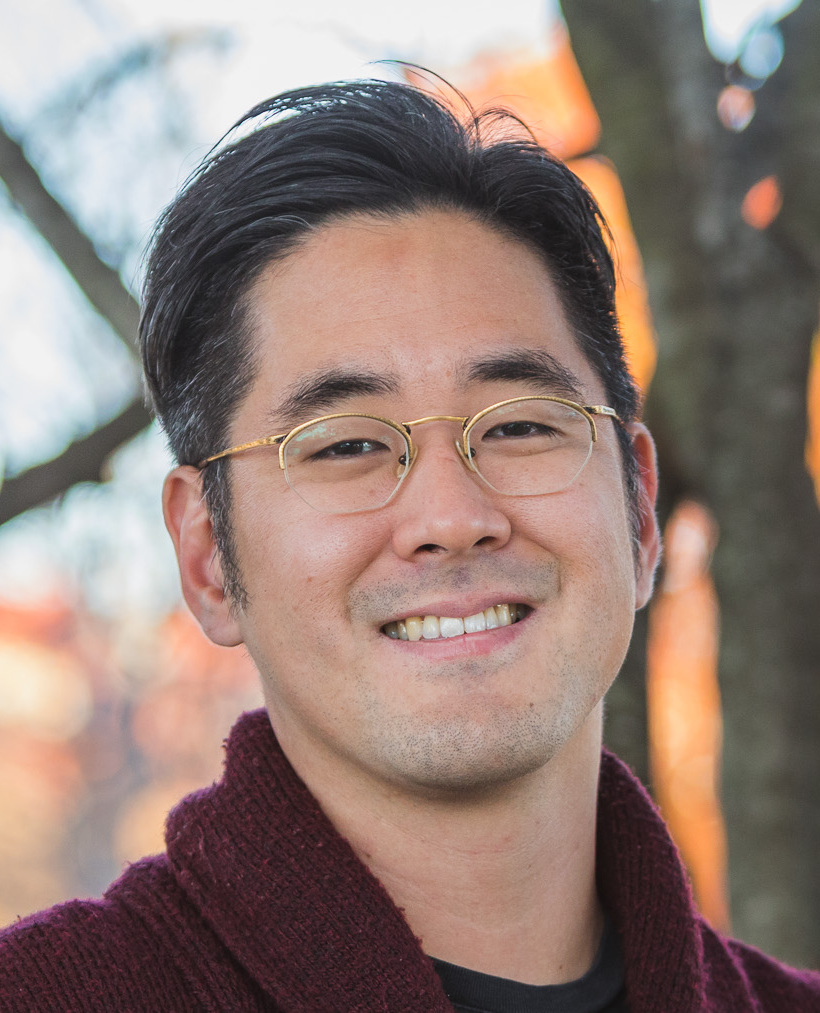
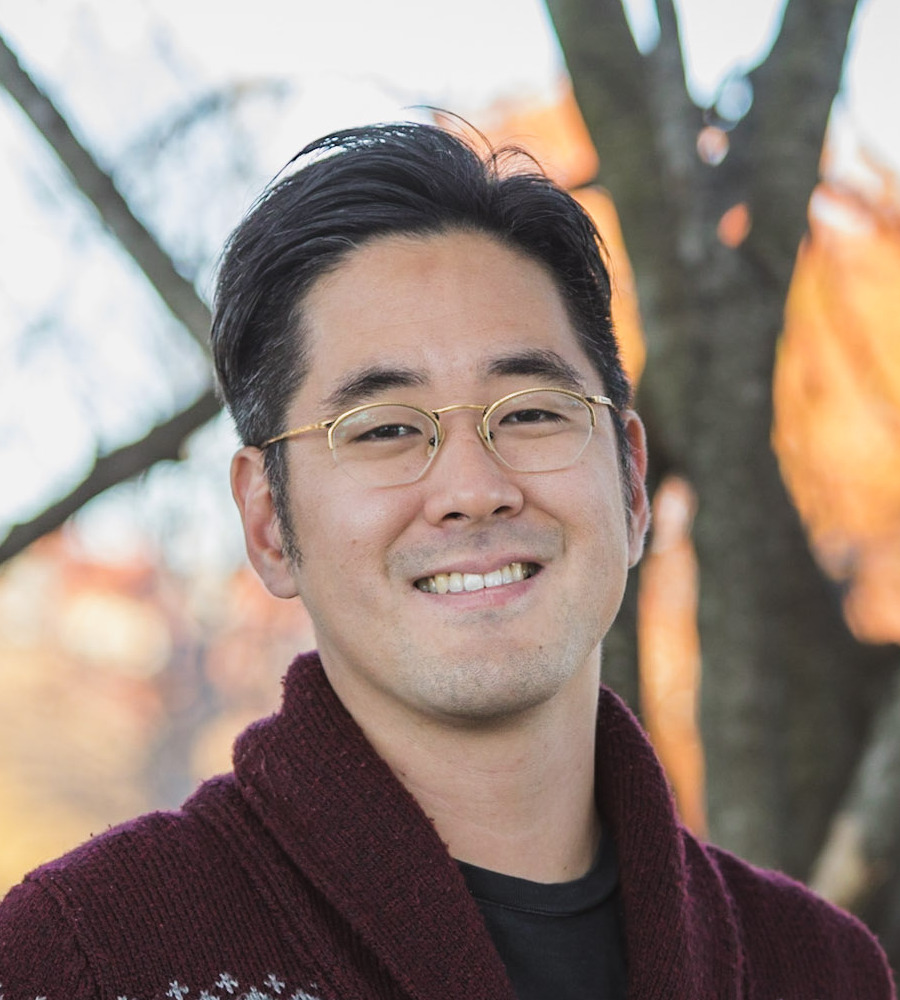
updated

diff --git a/index.html b/index.html
@@ -40,7 +40,7 @@
               </p>
             </td>
             <td style="padding:2.5%;width:40%;max-width:40%">
-              <a href="images/JLee_headshot.jpg"><img style="width:100%;max-width:100%" alt="profile photo" src="images/JLee_headshot.jpg" class="hoverZoomLink"></a>
+              <a href="images/JLee_headshot.jpg"><img style="width:100%;max-width:100%" alt="profile photo" src="images/JLee_headshot_circle.jpg" class="hoverZoomLink"></a>
             </td>
           </tr>
         </tbody></table>
